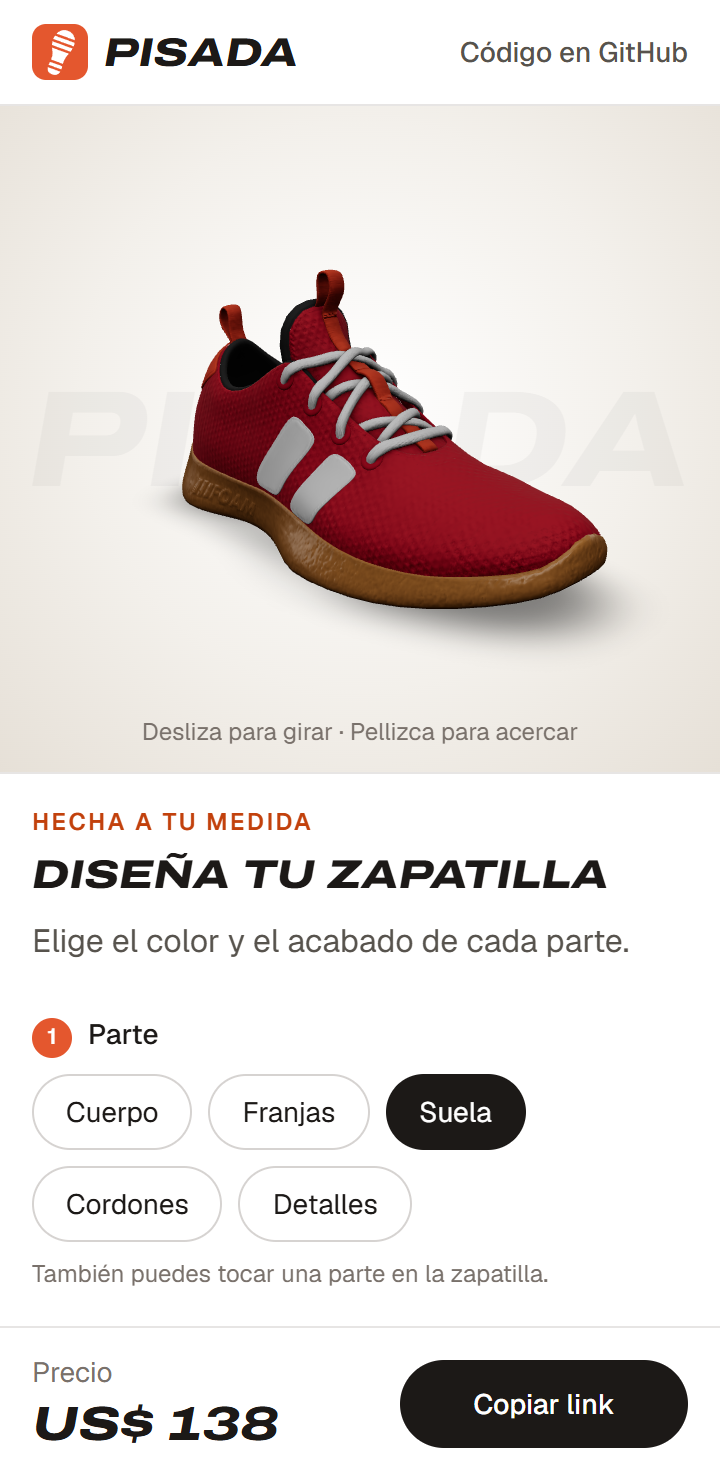
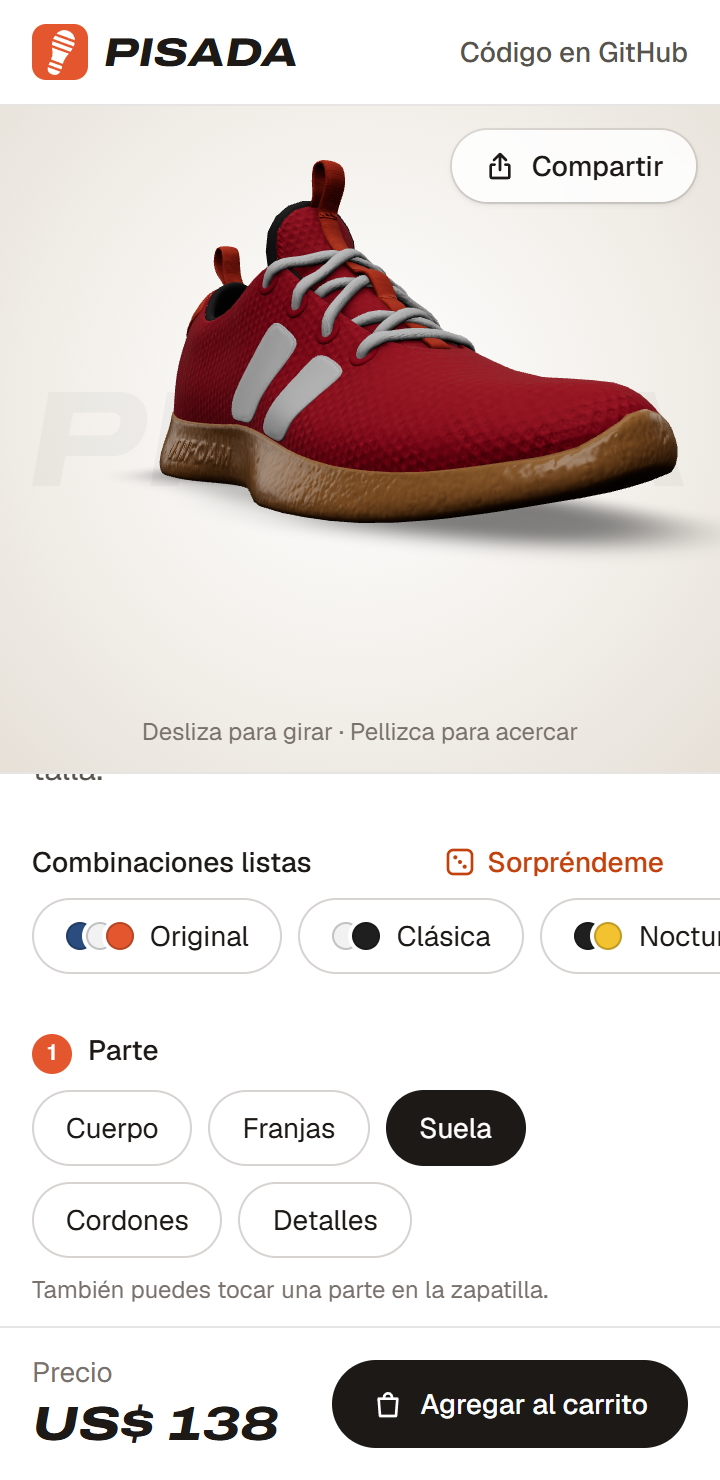
docs: explica en el README la compra simulada

diff --git a/README.md b/README.md
@@ -2,7 +2,7 @@
 
 [![Estado del CI](https://github.com/Vitomans/configurador-3d/actions/workflows/ci.yml/badge.svg)](https://github.com/Vitomans/configurador-3d/actions/workflows/ci.yml)
 
-Un configurador de producto para una tienda de zapatillas ficticia. Gira la zapatilla en 3D, cambia el color y el acabado de cada parte, mira cómo cambia el precio y comparte tu diseño exacto con un link.
+Un configurador de producto para una tienda de zapatillas ficticia. Gira la zapatilla en 3D, cambia el color y el acabado de cada parte, mira cómo cambia el precio, comparte tu diseño exacto con un link y ciérralo con una compra simulada, con una foto de tu diseño.
 
 **Demo en vivo: [pisada-3d.vercel.app](https://pisada-3d.vercel.app)**
 
@@ -12,7 +12,7 @@ Un configurador de producto para una tienda de zapatillas ficticia. Gira la zapa
 
 ## Funcionalidades
 
-<img src="docs/celular.png" alt="El configurador en un celular: la zapatilla arriba, las opciones abajo y el precio siempre a la vista" width="240" align="right">
+<img src="docs/celular.png" alt="El configurador en un celular: la zapatilla arriba con el botón Compartir, las opciones abajo, y el precio y Agregar al carrito siempre a la vista" width="240" align="right">
 
 - **Visor 3D:** arrastra para girar y usa la rueda para acercar, o desliza y pellizca en el celular. Luces tipo estudio de fotos, un fondo de estudio y una sombra suave.
 - **Entrada animada:** al cargar, la cámara se acerca con un movimiento suave y la zapatilla gira sola hasta que la tocas. Si el sistema pide reducir el movimiento, se queda quieta.
@@ -21,8 +21,9 @@ Un configurador de producto para una tienda de zapatillas ficticia. Gira la zapa
 - **Elegir una parte en la zapatilla:** al hacer clic (o tocar) una parte del modelo 3D, el panel pasa a esa parte.
 - **La cámara va a la parte:** al elegir una parte, en el panel o en la zapatilla, la cámara gira suave hasta mostrarla y la parte da un destello. Con el mouse, la parte que está debajo se resalta, y los cambios de color y de acabado son suaves.
 - **Precio en vivo:** un precio base de US$ 120, más US$ 8 por cada parte brillante y US$ 10 por la suela caramelo.
-- **Link para compartir:** el diseño se guarda en el link (`?cuerpo=rojo&suela=caramelo`). Al abrirlo se carga el mismo diseño, y "Copiar link" lo copia. Al compartirlo en WhatsApp o LinkedIn se ve una imagen de la tienda.
-- **Pensado para el celular:** la zapatilla queda fija arriba mientras las opciones se desplazan abajo, y el precio y el botón para compartir siempre se ven. Arrastrar sobre la zapatilla la gira en vez de mover la página.
+- **Link para compartir:** el diseño se guarda en el link (`?cuerpo=rojo&suela=caramelo`) y al abrirlo se carga el mismo diseño. "Compartir", sobre la zapatilla, abre el menú de compartir del teléfono en el celular y copia el link en el computador. Al compartirlo en WhatsApp o LinkedIn se ve una imagen de la tienda.
+- **Compra simulada:** eliges tu talla y "Agregar al carrito" abre el resumen del pedido, con una foto de tu diseño sacada del 3D, el color y el acabado de cada parte, lo que suma cada una y el total. Desde ahí puedes descargar la foto o compartir el diseño. Sin talla no se agrega: la página te lleva a las tallas y te avisa. No se cobra nada.
+- **Pensado para el celular:** la zapatilla queda fija arriba mientras las opciones se desplazan abajo, y el precio y "Agregar al carrito" siempre se ven. Arrastrar sobre la zapatilla la gira en vez de mover la página.
 - **Accesible:** todas las opciones funcionan con el teclado y con lectores de pantalla, y el círculo de carga respeta la opción "reducir movimiento".
 
 <br clear="right">
@@ -34,6 +35,7 @@ Un configurador de producto para una tienda de zapatillas ficticia. Gira la zapa
 - Three.js con [React Three Fiber](https://r3f.docs.pmnd.rs) y drei
 - Zustand para el estado compartido
 - `next/og` para dibujar la imagen para compartir el link
+- APIs del navegador: `<dialog>` para el resumen del pedido, Web Share y el portapapeles para compartir, y canvas para la foto
 - glTF Transform, meshoptimizer y sharp, para preparar el modelo 3D
 - Vitest para los tests unitarios y Playwright para los tests de punta a punta (e2e)
 - GitHub Actions: lint, tipos, tests, build y tests e2e en cada push
@@ -43,7 +45,7 @@ Un configurador de producto para una tienda de zapatillas ficticia. Gira la zapa
 ```mermaid
 flowchart LR
     panel["Panel de opciones"] -->|"cambiarColor()<br/>cambiarAcabado()"| store[("Store de Zustand<br/>el diseño")]
-    panel -->|"elegirParte()"| store
+    panel -->|"elegirParte()<br/>elegirTalla()"| store
     combinaciones["Combinaciones listas<br/>y Sorpréndeme"] -->|"aplicarCombinacion()"| store
     zapatilla["Clic en la zapatilla 3D"] -->|"elegirParte()"| store
     store --> producto["Zapatilla 3D<br/>color y rugosidad<br/>de cada parte"]
@@ -51,11 +53,14 @@ flowchart LR
     store --> precio["calcularPrecio()<br/>precio"]
     store --> url["configuracionAParametros()<br/>barra de direcciones"]
     link["Link compartido"] -->|"parametrosAConfiguracion()"| store
+    store --> pedido["Resumen del pedido<br/>detalle y talla"]
+    producto -->|"sacarFoto()"| pedido
 ```
 
 1. El panel y la zapatilla 3D comparten un store de Zustand con el diseño (el color y el acabado de cada parte) y con la parte elegida.
 2. Cuando cambia el diseño, la zapatilla 3D pasa suave a sus colores nuevos, el precio se vuelve a calcular y la barra de direcciones recibe el link nuevo. Cuando cambia la parte elegida, la cámara va a mostrarla.
 3. Cuando alguien abre un link compartido, el diseño se lee del link y se carga en el store.
+4. Al agregar al carrito, el resumen del pedido le pide una foto a la zapatilla 3D y muestra el diseño, la talla y el precio detallado.
 
 ## Estructura del proyecto
 
@@ -63,8 +68,8 @@ flowchart LR
 configurador-3d/
 ├── app/                ← la página (App Router de Next.js), el ícono y la imagen para compartir
 ├── assets/             ← la letra y la foto de la zapatilla que usa la imagen para compartir
-├── components/         ← visor 3D, cámara, la zapatilla 3D, logo, panel de opciones, precio y botón para compartir
-├── hooks/              ← mantiene sincronizados el diseño y el link
+├── components/         ← visor 3D, cámara, la zapatilla 3D y su foto, logo, panel de opciones, barra de compra, resumen del pedido y botón para compartir
+├── hooks/              ← mantiene sincronizados el diseño y el link, y comparte el link
 ├── lib/                ← catálogo, combinaciones, vistas de la cámara y funciones del precio, del link y del resalte (con tests)
 ├── store/              ← estado compartido con Zustand
 ├── scripts/            ← separa en partes el modelo 3D original
@@ -119,6 +124,16 @@ npm run e2e
 
 **La imagen para compartir se dibuja al compilar.** [`app/opengraph-image.tsx`](app/opengraph-image.tsx) arma la imagen con JSX y `ImageResponse` de `next/og`, y Next.js agrega solo las etiquetas `og:image` que leen WhatsApp, LinkedIn y otros. El 3D no se puede dibujar en el servidor, así que la imagen usa una foto de la zapatilla con fondo transparente, sacada de la misma página. La letra de la marca (Archivo) es "variable" en la página: un solo archivo trae todos los anchos y grosores. `next/og` no entiende ese tipo de archivo, así que usa uno fijo con la versión extendida, gruesa y en cursiva.
 
+**La foto del pedido sale del mismo 3D, con una cámara aparte.** El botón "Agregar al carrito" está fuera del canvas 3D, así que un componente de adentro ([`Fotografo.tsx`](components/Fotografo.tsx)) deja en el store la función `sacarFoto()`, y la barra de compra la llama. La foto usa su propia cámara, en la vista de toda la zapatilla, así sale igual aunque estés mirando la suela de cerca. Por un momento el canvas cambia a 1080 × 1080 píxeles (sin cambiar su tamaño en la página), dibuja la zapatilla y la copia sobre el fondo de estudio en un canvas 2D. Después vuelve a su tamaño y dibuja de nuevo la vista normal. Como todo pasa seguido, antes de que la pantalla se actualice, nunca ves la cámara de la foto. El PNG se arma con `toBlob`, sin congelar la página, y recibe una dirección `blob:` con `URL.createObjectURL`: es corta, sirve para la imagen y para "Descargar imagen", y se libera cuando llega otra foto.
+
+**El resumen del pedido es un `<dialog>` nativo.** Se abre con `showModal()`, y el navegador hace el resto: lo pone encima de todo, no deja tocar la página de atrás, no deja que el foco se escape, lo cierra con Esc y al cerrarlo devuelve el foco al botón que lo abrió. El evento `close` se dispara siempre que se cierra (con Esc, con un botón o con un clic fuera de la caja), y ahí se avisa al estado de React. Sin eso, después de cerrarlo con Esc no se podría volver a abrir: un test lo revisa.
+
+**El detalle del precio usa la misma función que el total.** `recargoDeParte()` dice cuánto suma cada parte (su acabado y su color especial), y `calcularPrecio()` es el precio base más esos recargos. El resumen muestra los recargos parte por parte, así que el detalle y el total no pueden quedar distintos.
+
+**La talla no va en el link.** El link guarda el diseño, que es lo que se comparte. La talla es de quien compra, así que vive solo en el store. Sin talla, "Agregar al carrito" no abre el resumen: muestra un aviso (`role="alert"`, que el lector de pantalla lee apenas aparece), desplaza el panel hasta las tallas y pone el foco en la primera.
+
+**"Compartir" cambia según el dispositivo.** Con pantalla táctil (`pointer: coarse`) usa `navigator.share`, que abre el menú de compartir del teléfono (WhatsApp, Instagram, correo...). En el computador ese menú es poco común, así que copia el link y el botón avisa "¡Link copiado!". Si la persona cierra el menú sin elegir nada, no pasa nada más. Está sobre la zapatilla, siempre a mano, y también en el resumen del pedido.
+
 **La sombra se calcula una sola vez.** La zapatilla nunca se mueve: lo que gira es la cámara. Por eso la sombra suave de abajo se dibuja una vez, cuando el modelo está listo, y no en cada cuadro. Sin tarjeta de video, eso sube la página de 9 a 14 cuadros por segundo.
 
 **Luces de estudio sin descargar una imagen.** Los reflejos vienen de unos paneles de luz armados en el código (`Lightformer` de drei), no de una foto HDR. Hay un archivo menos que descargar y los materiales igual se ven realistas.
@@ -133,8 +148,8 @@ npm run e2e
 
 ## Tests y CI
 
-- **Tests unitarios (Vitest):** 47 tests del precio, del link, de las combinaciones, de las vistas de la cámara y del resalte: recargos, links cortos, volver a leer un link, descartar valores que no existen, que cada combinación use colores que se venden para cada parte, que el diseño al azar sea siempre válido, que cada vista respete los límites de la cámara y que el resalte cambie igual la luminosidad de todos los colores sin cambiarles el tono.
-- **Tests e2e (Playwright):** 12 tests en un navegador de verdad, en una pantalla de escritorio y en un celular chico (360 × 740); el del mouse corre solo en escritorio. En el CI corren contra la versión compilada. Revisan que elegir opciones actualice el precio y el link, que "Copiar link" lo copie, que un link compartido abra el mismo diseño, que se ignoren los valores que no existen, que la página nunca se desplace entera, que sin WebGL el panel siga funcionando, que la zapatilla gire sola hasta tocarla y se quede quieta si el sistema pide reducir el movimiento, que al elegir una parte la cámara vaya a mostrarla y deje de girar, que la parte bajo el mouse se resalte, que una combinación lista cambie todo el diseño y "Original" lo devuelva al inicio, y que existan el ícono y la imagen para compartir. Para saber si la zapatilla está quieta, el test saca dos fotos del visor con medio segundo de diferencia: si son idénticas, no se movió. Con fotos también se revisa que al volver al cuerpo la cámara quede justo donde empezó, y que la parte vuelva a su color al sacar el mouse.
+- **Tests unitarios (Vitest):** 50 tests del precio, del link, de las combinaciones, de las vistas de la cámara y del resalte: recargos (también el de cada parte), links cortos, volver a leer un link, descartar valores que no existen, que cada combinación use colores que se venden para cada parte, que el diseño al azar sea siempre válido, que cada vista respete los límites de la cámara y que el resalte cambie igual la luminosidad de todos los colores sin cambiarles el tono.
+- **Tests e2e (Playwright):** 13 tests en un navegador de verdad, en una pantalla de escritorio y en un celular chico (360 × 740); el del mouse corre solo en escritorio. En el CI corren contra la versión compilada. Revisan que elegir opciones actualice el precio y el link, que "Compartir" abra el menú del teléfono en el celular y copie el link en el computador, que un link compartido abra el mismo diseño, que se ignoren los valores que no existen, que la página nunca se desplace entera, que sin WebGL el panel y el carrito sigan funcionando, que sin talla no se agregue al carrito, que el resumen muestre la talla, el detalle del precio y una foto cuadrada con los colores del diseño, que "Descargar imagen" baje esa foto, que el resumen se cierre con un botón o con Esc y se pueda volver a abrir, que la zapatilla gire sola hasta tocarla y se quede quieta si el sistema pide reducir el movimiento, que al elegir una parte la cámara vaya a mostrarla y deje de girar, que la parte bajo el mouse se resalte, que una combinación lista cambie todo el diseño y "Original" lo devuelva al inicio, y que existan el ícono y la imagen para compartir. Para saber si la zapatilla está quieta, el test saca dos fotos del visor con medio segundo de diferencia: si son idénticas, no se movió. Con fotos también se revisa que al volver al cuerpo la cámara quede justo donde empezó, y que la parte vuelva a su color al sacar el mouse.
 - **CI:** GitHub Actions corre lint, tipos, tests unitarios, build y tests e2e en cada push. La máquina del CI no tiene tarjeta de video, así que el navegador dibuja el 3D con el procesador (unos 12 cuadros por segundo) y el modelo tarda varios segundos en aparecer. Los tests le dan hasta 30 segundos y corren de a 2 (en local, de a uno). Si un test falla, se corre otra vez y se guarda la traza de Playwright para ver qué pasó.
 
 ## Limitaciones conocidas
@@ -142,7 +157,8 @@ npm run e2e
 - El precio solo se calcula en el navegador. Una tienda real lo volvería a calcular en el servidor antes de cobrar, con el catálogo en una base de datos.
 - Hay un solo producto, y su catálogo está en el código.
 - Cada parte tiene un solo color plano: se quitaron las texturas de color originales y solo queda el relieve de la tela.
-- Sin WebGL no hay vista 3D ni foto de la zapatilla, solo un aviso.
+- Sin WebGL no hay vista 3D ni foto de la zapatilla, solo un aviso. El resumen del pedido se abre igual, sin foto.
+- El carrito es simulado: "Agregar al carrito" muestra el resumen del pedido, pero no guarda los pedidos ni cobra.
 - La imagen para compartir muestra siempre la zapatilla con sus colores iniciales, no el diseño del link.
 
 ## Comandos
